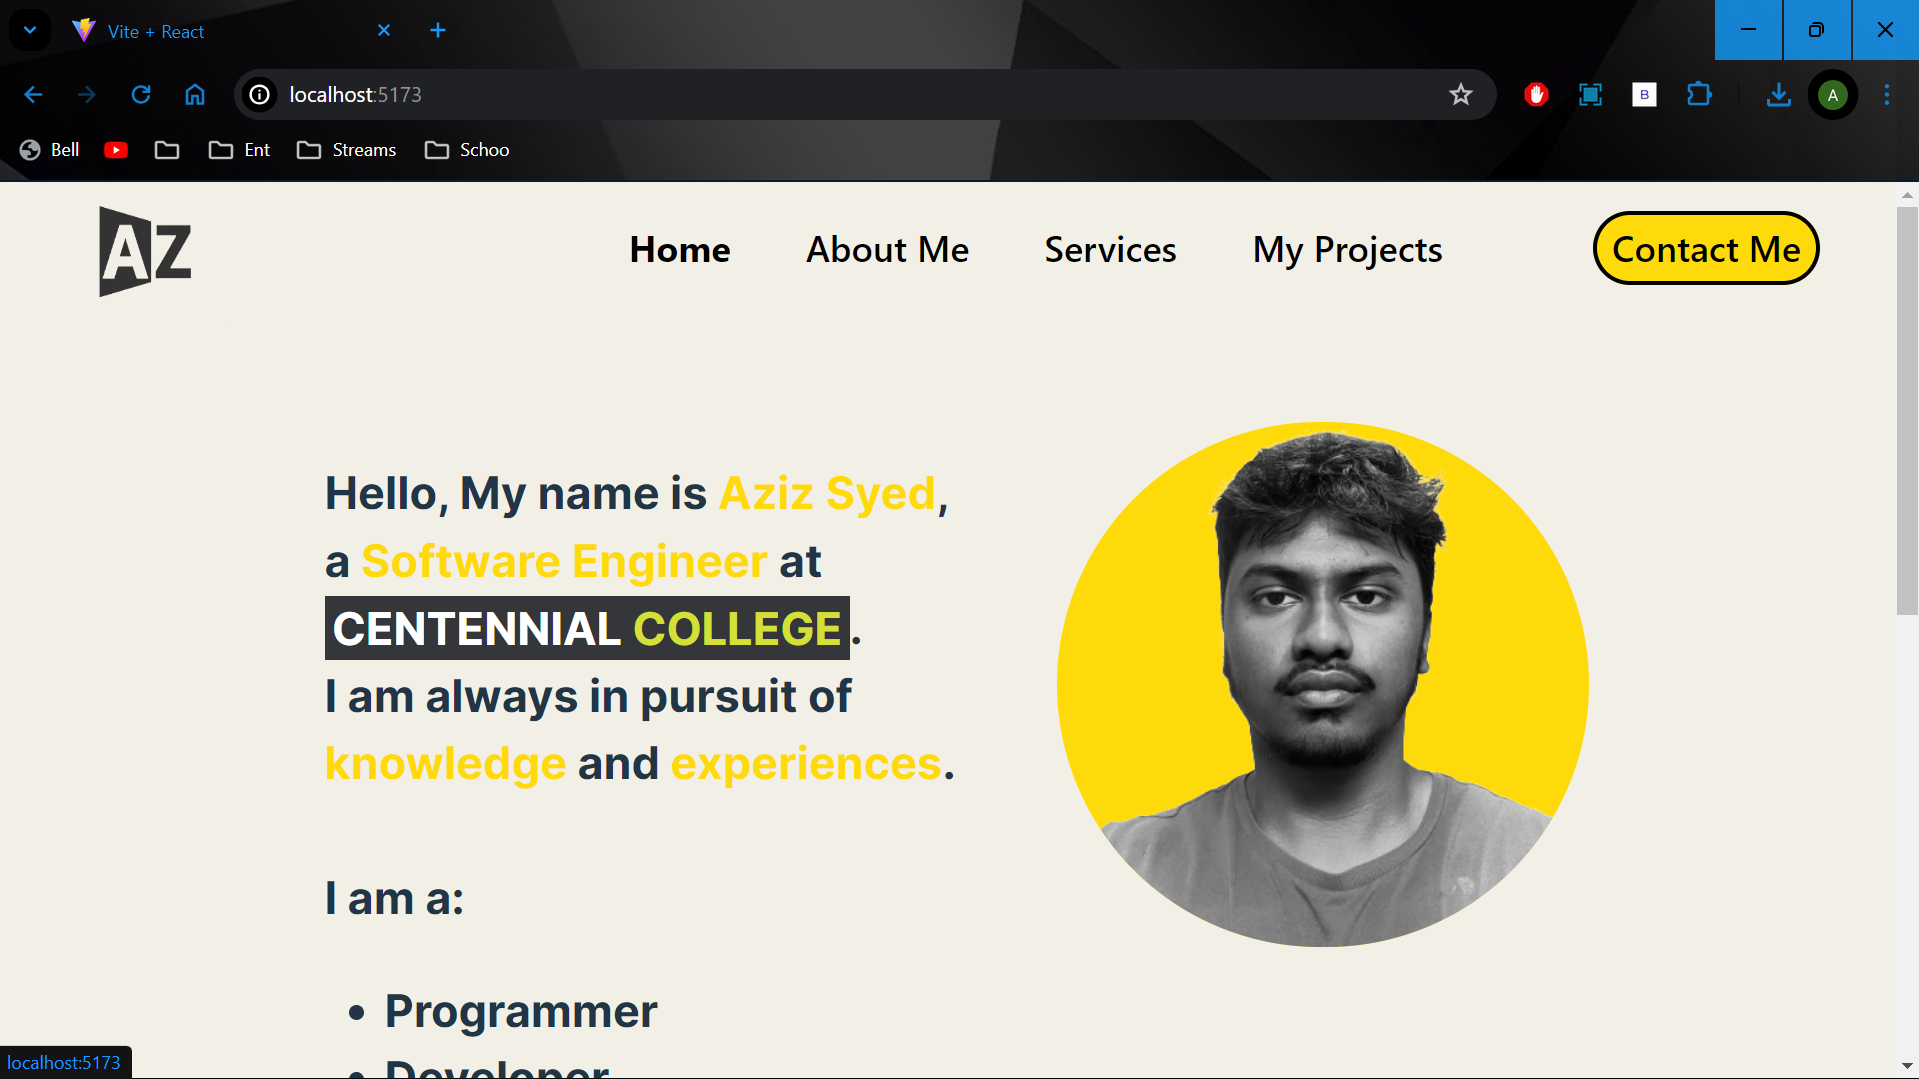
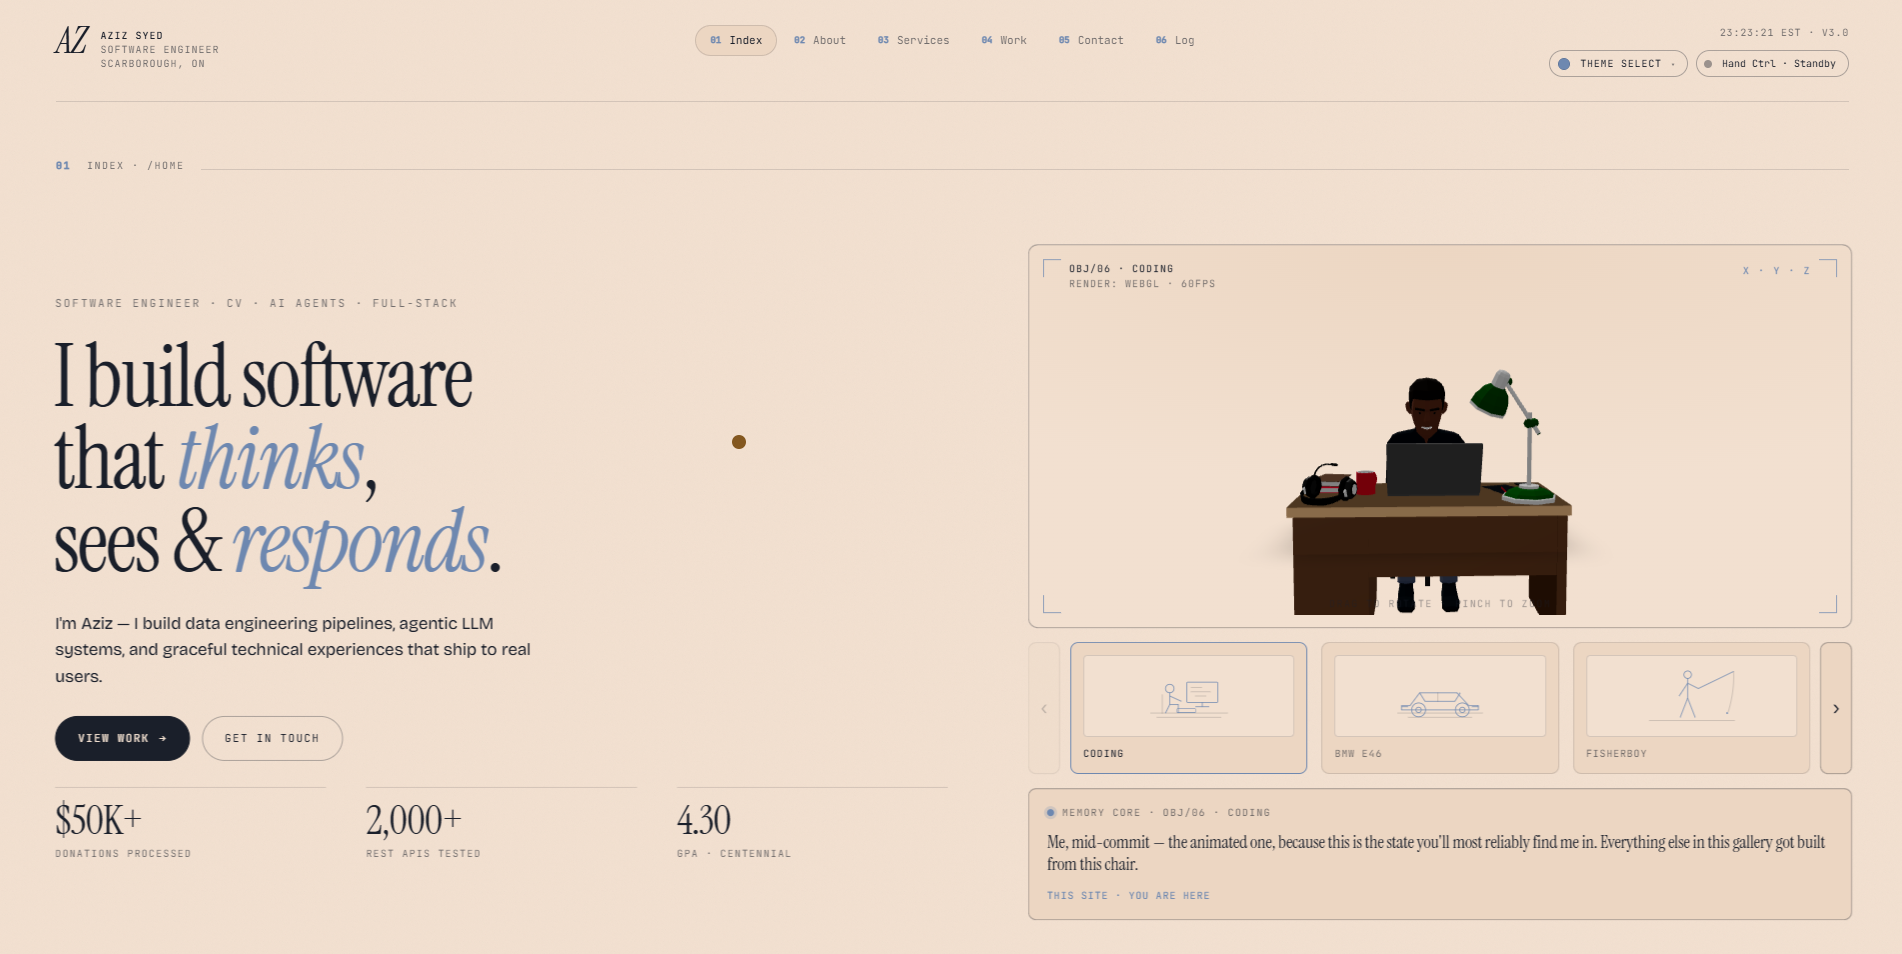
update: old projects updated with new ones

diff --git a/client/src/content/projects.js b/client/src/content/projects.js
@@ -7,6 +7,17 @@
 // and render the designed "Drop … screenshot" fallback. To add one: drop the
 // file in src/assets/project-pics/, import it here, set preview.image.
 import pxpShot from "../assets/project-pics/pxp-img.png";
+import mye46Shot from "../assets/project-pics/mye46.png";
+import aslShot from "../assets/project-pics/aslDemo.png";
+import hooksShot from "../assets/project-pics/hiddenhook_demo.png";
+import gymnetShot from "../assets/project-pics/gymnet.png";
+import dineSmartShot from "../assets/project-pics/dine-smart.png";
+import movieShareShot from "../assets/project-pics/MovieShare-AzizSyed.png";
+import commConnectShot from "../assets/project-pics/community-portal.png";
+import portfolioShot from "../assets/project-pics/portfolioPic.png";
+import homeboundShot from "../assets/project-pics/homebound_demo.png";
+import internHubShot from "../assets/project-pics/internhub_demo.png";
+import morseBridgeShot from "../assets/project-pics/morsebridge_demo.png";
 
 export const FEATURED_PROJECTS = [
   {
@@ -45,7 +56,7 @@ export const FEATURED_PROJECTS = [
     url: "MyE46.app",
     desc: "Agentic 3D car configurator. Plain-English mods, live budget-aware build updates, real-time part swapping.",
     tags: ["React Three Fiber", "Three.js", "Express", "Gemini API", "Zustand"],
-    preview: { metaLeft: "RENDER · R3F SCENE", dims: "1920×1080" },
+    preview: { image: mye46Shot, metaLeft: "RENDER · R3F SCENE", dims: "1920×1080" },
     stats: [
       { v: "600+", l: "Users week one" },
       { v: "15–30%", l: "GPU under load" },
@@ -74,7 +85,7 @@ export const FEATURED_PROJECTS = [
     url: "ASLHandCoach.ca",
     desc: "Browser-based ASL trainer. Live camera input, 21 hand keypoints, sub-200ms ML inference.",
     tags: ["React", "TypeScript", "MediaPipe", "CNN", "Tailwind"],
-    preview: { metaLeft: "CAM 01 · 21 KEYPOINTS", dims: "640×480" },
+    preview: { image: aslShot, metaLeft: "CAM 01 · 21 KEYPOINTS", dims: "640×480" },
     stats: [
       { v: "90%", l: "Recognition accuracy" },
       { v: "<200ms", l: "Inference / frame" },
@@ -103,7 +114,7 @@ export const FEATURED_PROJECTS = [
     url: "HiddenHooks.ca",
     desc: "PostGIS engine ranking 100K+ Ontario water bodies. Geospatial ETL across 9 open-data sources, graph inference for fish presence.",
     tags: ["FastAPI", "PostGIS", "NetworkX", "Next.js", "Mapbox GL"],
-    preview: { metaLeft: "MAP · MAPBOX GL", dims: "1920×1080" },
+    preview: { image: hooksShot, metaLeft: "MAP · MAPBOX GL", dims: "1920×1080" },
     stats: [
       { v: "100K+", l: "Water bodies ranked" },
       { v: "3GB+", l: "Geospatial data" },
@@ -127,11 +138,238 @@ export const FEATURED_PROJECTS = [
   },
 ];
 
-export const PROJECTS_BY_ID = Object.fromEntries(FEATURED_PROJECTS.map((p) => [p.id, p]));
-
+// Archive projects — the same rich shape as featured so each opens the exploded
+// view (registered in PROJECTS_BY_ID below). `note` is the compact row subtitle;
+// `tags` is an array (the row joins it). `stats` is optional — included only
+// where a real number exists, omitted otherwise (the exploded view hides the
+// metrics panel when absent).
 export const ARCHIVE_PROJECTS = [
-  { num: "05", title: "GymNet",      tags: "React · Spring Boot · PostgreSQL · Flyway", note: "Gym ops + member + admin dashboards",  extra: "Role-based dashboards for members, trainers, and admins, with Flyway-versioned schema migrations." },
-  { num: "06", title: "DineSmart",   tags: "Angular · Spring Boot · MongoDB · GraphQL", note: "Restaurant management, Apollo Server", extra: "Menu, orders, and table management served over a GraphQL API with Apollo Server." },
-  { num: "07", title: "MovieShare",  tags: "ASP.NET Core · AWS EC2 · S3 · CloudFront · RDS", note: "Cloud movie streaming on AWS CI/CD", extra: "Streaming pipeline on EC2 + S3 + CloudFront with an automated CI/CD release to AWS." },
-  { num: "08", title: "CommConnect", tags: "Next.js · React MFEs · Apollo Federation · Gemini", note: "Community platform with AI RAG assistant", extra: "Federated micro-frontends with a Gemini-powered RAG assistant answering community questions." },
+  {
+    id: "gymnet",
+    num: "P/05",
+    title: "GymNet",
+    url: "github.com/AzizSyed27",
+    note: "Gym ops + member + admin dashboards",
+    desc: "Gym operations platform with role-based dashboards for members, trainers, and admins over a Spring Boot API.",
+    tags: ["React", "Spring Boot", "PostgreSQL", "Flyway"],
+    preview: { image: gymnetShot, metaLeft: "DASHBOARD · ADMIN", dims: "1920×1080" },
+    arch: [
+      { label: "CLIENT", sub: "React SPA" },
+      { label: "API", sub: "Spring Boot" },
+      { label: "DB", sub: "PostgreSQL" },
+      { label: "MIGRATE", sub: "Flyway" },
+    ],
+    caseStudy: {
+      title: "Run the gym from one panel.",
+      body: [
+        "GymNet gives members, trainers, and admins their own ",
+        { b: "role-based dashboards" },
+        " over a Spring Boot API, with the schema kept honest by ",
+        { b: "Flyway-versioned migrations" },
+        " so every environment stays in lockstep.",
+      ],
+    },
+  },
+  {
+    id: "dinesmart",
+    num: "P/06",
+    title: "DineSmart",
+    url: "github.com/AzizSyed27",
+    note: "Restaurant management, Apollo Server",
+    desc: "Restaurant management app — menu, orders, and tables served over a GraphQL API with Apollo Server.",
+    tags: ["Angular", "Spring Boot", "MongoDB", "GraphQL"],
+    preview: { image: dineSmartShot, metaLeft: "ORDERS · GRAPHQL", dims: "1920×1080" },
+    arch: [
+      { label: "CLIENT", sub: "Angular" },
+      { label: "API", sub: "Spring Boot" },
+      { label: "GRAPHQL", sub: "Apollo" },
+      { label: "DB", sub: "MongoDB" },
+    ],
+    caseStudy: {
+      title: "The whole floor, one query away.",
+      body: [
+        "DineSmart handles ",
+        { b: "menu, orders, and table management" },
+        " through a single GraphQL API on Apollo Server, so the Angular front-end pulls exactly the data each view needs from MongoDB — nothing more.",
+      ],
+    },
+  },
+  {
+    id: "movieshare",
+    num: "P/07",
+    title: "MovieShare",
+    url: "github.com/AzizSyed27",
+    note: "Cloud movie streaming on AWS CI/CD",
+    desc: "Cloud movie-streaming app deployed across AWS with an automated CI/CD release pipeline.",
+    tags: ["ASP.NET Core", "AWS EC2", "S3", "CloudFront", "RDS"],
+    preview: { image: movieShareShot, metaLeft: "STREAM · CLOUDFRONT", dims: "1920×1080" },
+    arch: [
+      { label: "APP", sub: "ASP.NET Core" },
+      { label: "COMPUTE", sub: "EC2" },
+      { label: "DELIVERY", sub: "S3 + CloudFront" },
+      { label: "DB", sub: "RDS" },
+    ],
+    caseStudy: {
+      title: "Streaming, shipped to the cloud.",
+      body: [
+        "MovieShare runs an ASP.NET Core app on EC2 with media on ",
+        { b: "S3 behind CloudFront" },
+        " and data in RDS — released through an ",
+        { b: "automated CI/CD pipeline" },
+        " so a push lands in production without hand-holding.",
+      ],
+    },
+  },
+  {
+    id: "commconnect",
+    num: "P/08",
+    title: "CommConnect",
+    url: "github.com/AzizSyed27",
+    note: "Community platform with AI RAG assistant",
+    desc: "Community platform built from federated micro-frontends with a Gemini-powered RAG assistant.",
+    tags: ["Next.js", "React MFEs", "Apollo Federation", "Gemini"],
+    preview: { image: commConnectShot, metaLeft: "PORTAL · RAG", dims: "1920×1080" },
+    arch: [
+      { label: "SHELL", sub: "Next.js" },
+      { label: "MFEs", sub: "React" },
+      { label: "FEDERATE", sub: "Apollo" },
+      { label: "ASSISTANT", sub: "Gemini RAG" },
+    ],
+    caseStudy: {
+      title: "Many teams, one community portal.",
+      body: [
+        "CommConnect composes independent ",
+        { b: "React micro-frontends" },
+        " behind an Apollo Federation gateway, with a ",
+        { b: "Gemini-powered RAG assistant" },
+        " answering community questions from the platform's own content.",
+      ],
+    },
+  },
+  {
+    id: "internhub",
+    num: "P/09",
+    title: "InternHub",
+    url: "github.com/AzizSyed27/InternHub",
+    note: "Internship tracker + LinkedIn outreach automation",
+    desc: "Python automation suite that monitors internship postings across 30+ sources and drafts AI-personalized LinkedIn outreach.",
+    tags: ["Python", "Playwright", "Claude API", "Gmail SMTP"],
+    preview: { image: internHubShot, metaLeft: "AUTOMATION · CLI", dims: "terminal" },
+    stats: [
+      { v: "30+", l: "Job sources monitored" },
+      { v: "35+", l: "Target companies" },
+    ],
+    arch: [
+      { label: "SCRAPE", sub: "Greenhouse · Workday" },
+      { label: "DEDUP", sub: "JSON store" },
+      { label: "NOTIFY", sub: "Gmail SMTP" },
+      { label: "CONNECT", sub: "LinkedIn · Claude" },
+    ],
+    caseStudy: {
+      title: "Never miss a posting again.",
+      body: [
+        "InternHub polls ",
+        { b: "30+ job sources every 5 minutes" },
+        " — Greenhouse/Lever/Workday APIs plus Playwright scrapers — dedupes against a local store, and emails new listings. A second pipeline finds the right people and drafts ",
+        { b: "Claude-personalized connection notes" },
+        " for manual outreach.",
+      ],
+    },
+  },
+  {
+    id: "homebound",
+    num: "P/10",
+    title: "Homebound",
+    url: "github.com/AzizSyed27/Homebound",
+    note: "ML predictor for stolen-bike recovery",
+    desc: "Supervised ML pipeline estimating the odds a stolen Toronto bike is recovered, served through a Flask API + web UI.",
+    tags: ["Python", "scikit-learn", "Flask", "XGBoost"],
+    preview: { image: homeboundShot, metaLeft: "MODEL · /predict", dims: "1920×1080" },
+    stats: [
+      { v: "37.9K", l: "Theft records" },
+      { v: "3", l: "Calibrated classifiers" },
+    ],
+    arch: [
+      { label: "DATA", sub: "37.9K records" },
+      { label: "FEATURES", sub: "engineering" },
+      { label: "MODEL", sub: "RF · calibrated" },
+      { label: "API", sub: "Flask /predict" },
+    ],
+    caseStudy: {
+      title: "Will this bike come home?",
+      body: [
+        "Homebound trains three classifiers on ",
+        { b: "~37,900 Toronto Police theft records" },
+        " — handling a severe 99%-not-recovered imbalance with calibration and careful feature engineering — then serves live probabilities through a ",
+        { b: "Flask /predict API" },
+        " and an interactive web UI.",
+      ],
+    },
+  },
+  {
+    id: "morsebridge",
+    num: "P/11",
+    title: "MorseBridge",
+    url: "github.com/AzizSyed27/MorseBridge",
+    note: "Offline SwiftUI Morse-code tutor",
+    desc: "Offline SwiftUI app that teaches Morse code through sound, light, haptics, and speech.",
+    tags: ["Swift", "SwiftUI", "iOS"],
+    preview: { image: morseBridgeShot, metaLeft: "iOS · OFFLINE", dims: "1170×2532" },
+    stats: [
+      { v: "4", l: "Sense channels" },
+      { v: "Offline", l: "Runs on-device" },
+    ],
+    arch: [
+      { label: "INPUT", sub: "key / tap" },
+      { label: "CORE", sub: "lesson logic" },
+      { label: "PLAYBACK", sub: "tone + flash" },
+      { label: "SENSE", sub: "haptics + TTS" },
+    ],
+    caseStudy: {
+      title: "Feel the dots and dashes.",
+      body: [
+        "MorseBridge teaches Morse through ",
+        { b: "four senses at once" },
+        " — audio tone, screen flash, haptic taps, and speech synthesis — in a modular SwiftUI app that works ",
+        { b: "entirely offline" },
+        ", no account or network required.",
+      ],
+    },
+  },
+  {
+    id: "portfolio",
+    num: "P/12",
+    title: "Aziz's Portfolio",
+    url: "azizsyed.ca",
+    note: "This site — React + hand-tracking control",
+    desc: "This portfolio — a React 19 SPA with a 3D gallery and an optional webcam hand-control layer.",
+    tags: ["React 19", "Vite", "R3F / three", "MediaPipe"],
+    preview: { image: portfolioShot, metaLeft: "SPA · HAND MODE", dims: "1920×1080" },
+    stats: [
+      { v: "9", l: "Color themes" },
+      { v: "6", l: "Routes" },
+    ],
+    arch: [
+      { label: "SPA", sub: "React 19" },
+      { label: "3D", sub: "R3F / three" },
+      { label: "HAND", sub: "MediaPipe" },
+      { label: "DEPLOY", sub: "Render" },
+    ],
+    caseStudy: {
+      title: "A portfolio you can steer with your hands.",
+      body: [
+        "The site you're on: a React 19 + Vite SPA with a ",
+        { b: "3D gallery and an exploded project view" },
+        " (this one), plus an optional ",
+        { b: "MediaPipe hand-tracking layer" },
+        " that drives every interaction through the same action layer as mouse and keyboard.",
+      ],
+    },
+  },
 ];
+
+// Every project (featured + archive) is resolvable by id so the exploded view
+// can open any of them.
+export const PROJECTS_BY_ID = Object.fromEntries(
+  [...FEATURED_PROJECTS, ...ARCHIVE_PROJECTS].map((p) => [p.id, p]),
+);

diff --git a/client/src/overlays/ExplodedView.jsx b/client/src/overlays/ExplodedView.jsx
@@ -1,4 +1,4 @@
-import { createContext, Fragment, useCallback, useContext, useEffect, useRef, useState } from "react";
+import { createContext, Fragment, useCallback, useEffect, useRef, useState } from "react";
 import { PROJECTS_BY_ID } from "../content/projects";
 import DecryptedText from "../components/DecryptedText";
 import { useHandPointer } from "../hand/useHandPointer";
@@ -540,18 +540,20 @@ export function ExplodedView({ id, origin, onClose }) {
               )}
             </div>
 
-            <div className="frag" id="exp-frag-stats" data-depth={DEPTH.stats} onPointerDown={onFragDown}>
-              <div className="frag-label"><Decrypt text="L02 · METRICS" delay={D.stats} /></div>
-              <span className="frag-idx"><Decrypt text="02 / 05" delay={D.stats} /></span>
-              <div className="stat-row">
-                {stats.map((s, i) => (
-                  <div className="stat-cell" key={i}>
-                    <div className="v"><Decrypt text={s.v} delay={D.stats + 40 + i * 30} /></div>
-                    <div className="l"><Decrypt text={s.l} delay={D.stats + 70 + i * 30} /></div>
-                  </div>
-                ))}
+            {stats.length > 0 && (
+              <div className="frag" id="exp-frag-stats" data-depth={DEPTH.stats} onPointerDown={onFragDown}>
+                <div className="frag-label"><Decrypt text="L02 · METRICS" delay={D.stats} /></div>
+                <span className="frag-idx"><Decrypt text="02 / 05" delay={D.stats} /></span>
+                <div className="stat-row">
+                  {stats.map((s, i) => (
+                    <div className="stat-cell" key={i}>
+                      <div className="v"><Decrypt text={s.v} delay={D.stats + 40 + i * 30} /></div>
+                      <div className="l"><Decrypt text={s.l} delay={D.stats + 70 + i * 30} /></div>
+                    </div>
+                  ))}
+                </div>
               </div>
-            </div>
+            )}
 
             <div className="frag" id="exp-frag-tags" data-depth={DEPTH.tags} onPointerDown={onFragDown}>
               <div className="frag-label"><Decrypt text="L03 · STACK" delay={D.tags} /></div>

diff --git a/client/src/pages/Projects.jsx b/client/src/pages/Projects.jsx
@@ -72,26 +72,21 @@ function ProjectCardTilt({ p }) {
   );
 }
 
-function ArchiveRow({ p, defaultOpen }) {
-  const [open, setOpen] = useState(!!defaultOpen);
+function ArchiveRow({ p }) {
+  const actions = useActions();
   return (
     <div
       className="project-row archive-row"
       data-cursor="hover"
-      data-open={open ? "1" : "0"}
-      onClick={() => setOpen((v) => !v)}
+      data-hand-project={p.id}
+      onClick={(e) => actions.openProject(p.id, rectOf(e.currentTarget))}
     >
-      <span className="pr-num">P/{p.num}</span>
+      <span className="pr-num">{p.num}</span>
       <div>
         <div className="pr-title">{p.title}</div>
         <div className="eyebrow" style={{ marginTop: 6 }}>{p.note}</div>
-        {p.extra && (
-          <div className="ar-extra">
-            <div className="ar-extra-inner">{p.extra}</div>
-          </div>
-        )}
       </div>
-      <span className="pr-tags">{p.tags}</span>
+      <span className="pr-tags">{p.tags.join(" · ")}</span>
       <span className="pr-arrow">→</span>
     </div>
   );
@@ -119,7 +114,7 @@ export default function Projects() {
       <Section num="05" label="Additional · /archive">
         <div>
           {ARCHIVE_PROJECTS.map((p) => (
-            <ArchiveRow key={p.title} p={p} defaultOpen={p.title === "GymNet"} />
+            <ArchiveRow key={p.id} p={p} />
           ))}
         </div>
       </Section>
